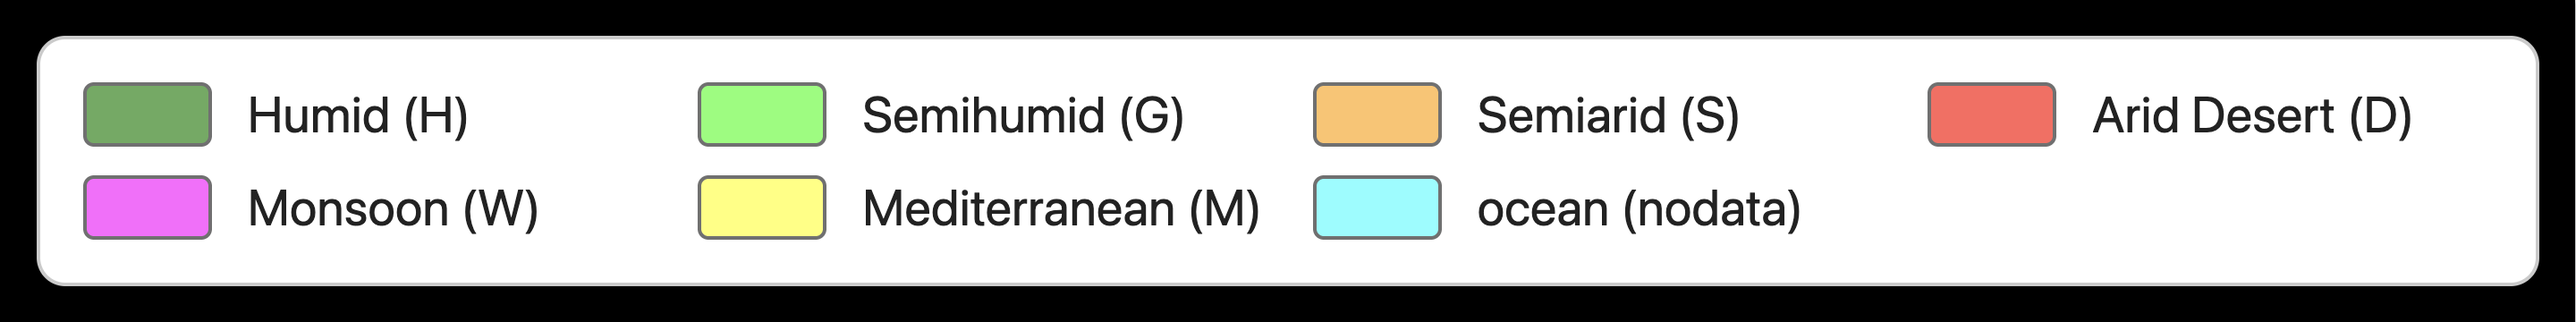
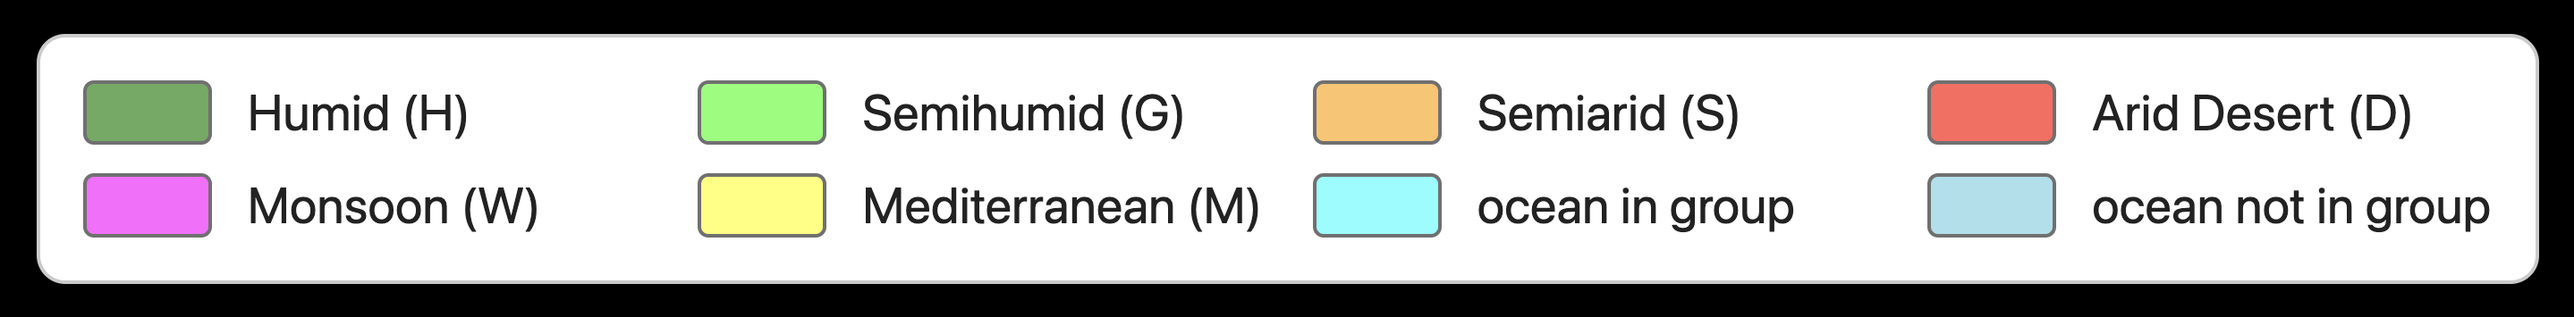
fixes

diff --git a/ScientificMapMakers/LegendClimateGroup.html b/ScientificMapMakers/LegendClimateGroup.html
@@ -54,7 +54,8 @@
       { label: "Arid Desert (D)",     color: "#FF0000" },
       { label: "Monsoon (W)",         color: "#FF00FF" },
       { label: "Mediterranean (M)",   color: "#FFFF00" },
-      { label: "ocean (nodata)",      color: "#00FFFF" },
+      { label: "ocean in group",      color: "#00FFFF" },
+      { label: "ocean not in group",  color: "#7ED3E5" },
     ];
 
     // ---------- RENDER ----------
